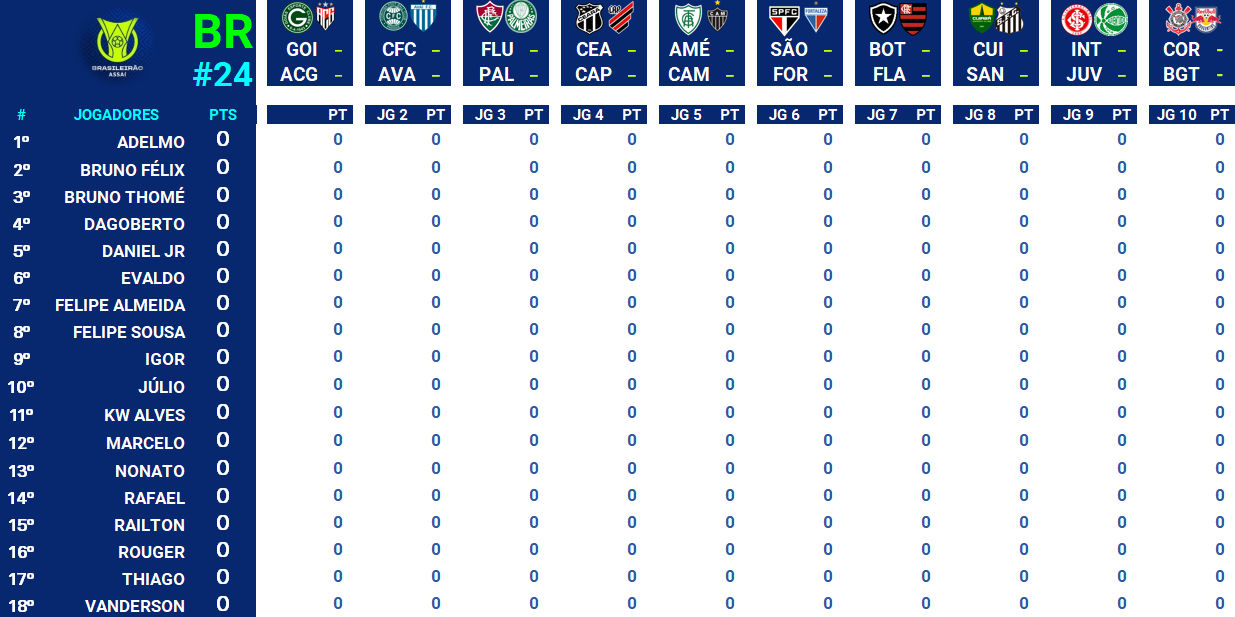
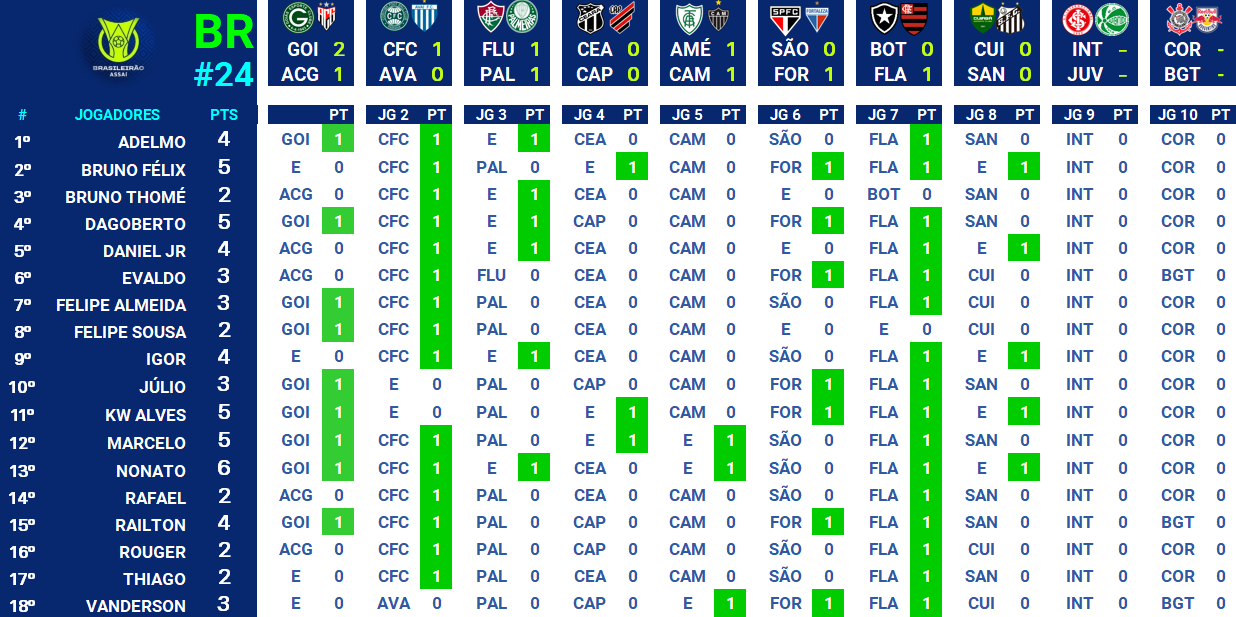
Atualização jogos de domingo 24ª Rodada

diff --git a/index.html b/index.html
@@ -51,16 +51,16 @@
         <div class="container grid">
           <div class="image">
             <img
-              src="./assets/fotos/mercadoaberto.png"
+              src="./assets/fotos/match24.PNG"
               alt="Logo do Campeonato Brasileiro 2022"
             />
           </div>
           <div class="text">
-            <h2 class="title"><a href="./palpites_24.html">24ª Rodada: Mercado aberto para palpites!</a></h2>
+            <h2 class="title"><a href="./predictor.html">24ª Rodada rolando...</a></h2>
             <p>
-              Mercado fecha neste sábado 27/08 às 16:30
+              Acompanhem os jogos ao vivo.
             </p>
-           <a class="button" href="./palpites_24.html">PALPITEM AQUI</a>
+           <a class="button" href="./predictor.html">RESULTADOS 24ª RODADA</a>
           </div>
         </div>
       </section>
